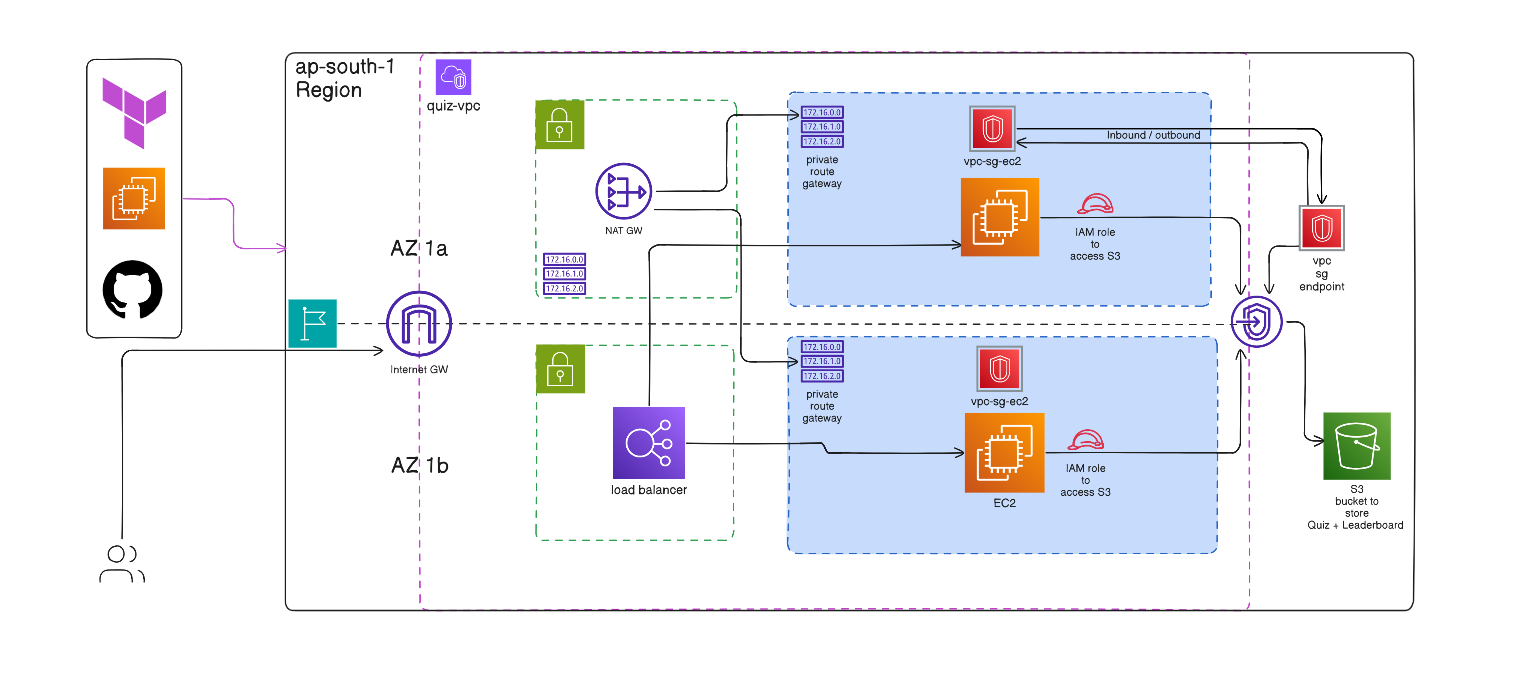
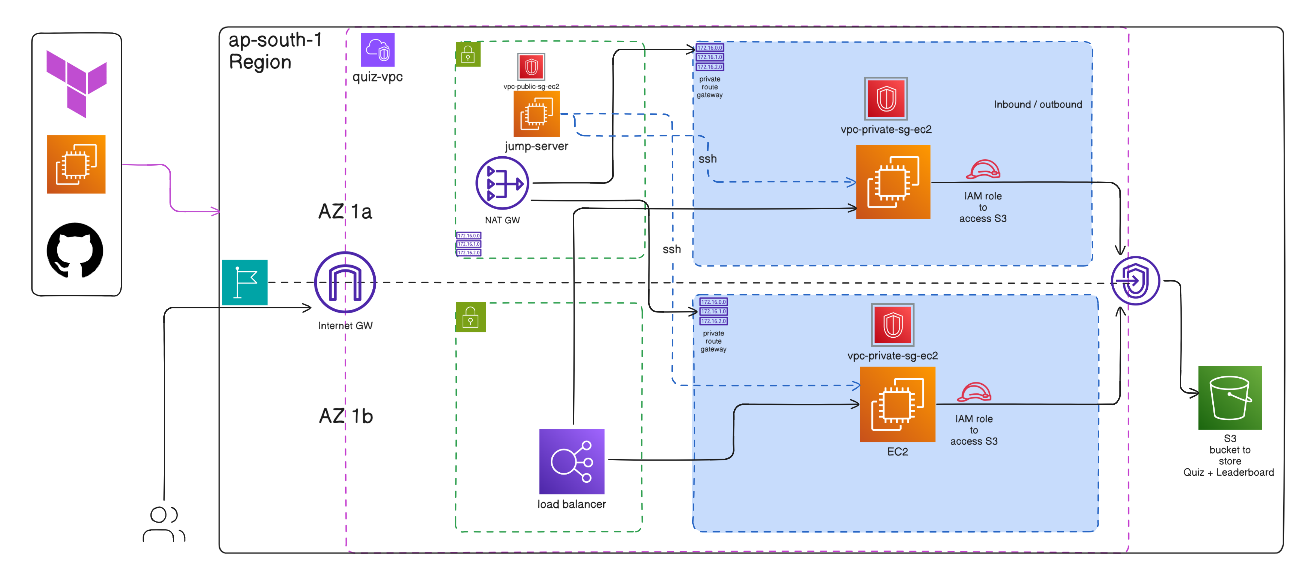
sg and arch diag updated

diff --git a/aws/App/TwoTireApp/README.md b/aws/App/TwoTireApp/README.md
@@ -51,4 +51,6 @@
          > name = "com.amazonaws.${var.region}.s3"
          > }
          > ```
-      1.
+      1. added rule to access the `s3` in `ec2-sg`
+   1. Next : generate key ec2-module to create EC2 instances in both private subnet
+   1. Last use ec2-module to create EC2 instances in both private subnet
